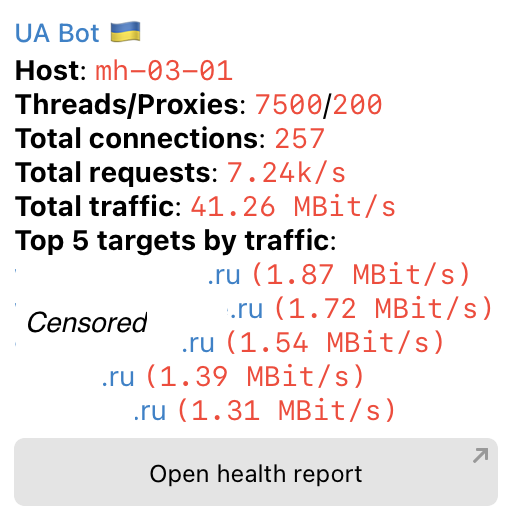
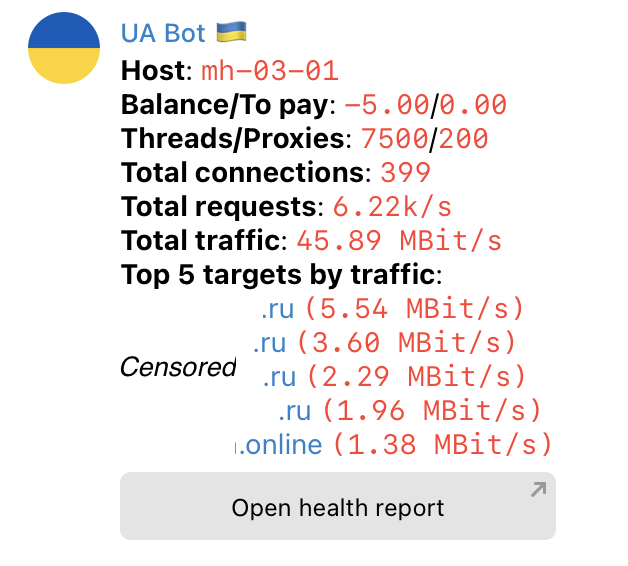
Finish README

Changed region(s): [[0.0, 0.0, 0.9734, 0.966], [0.2738, 0.8755, 0.73, 0.9358]]

diff --git a/README.md b/README.md
@@ -1,4 +1,4 @@
-## Встановлювач [mhddos_proxy](https://github.com/porthole-ascend-cinnamon/mhddos_proxy) зі сповіщенням у Telegram 
+# Встановлювач [mhddos_proxy](https://github.com/porthole-ascend-cinnamon/mhddos_proxy) зі сповіщенням у Telegram 
 
 За цією інструкцією ви зможете налаштувати [mhddos_proxy](https://github.com/porthole-ascend-cinnamon/mhddos_proxy) та сповіщення у Телеграм. Це дасть вам змогу зробити це один раз та завжди знати що відбувається на серверах без потреби перевіряти їх кожного дня. Також, це просто красиво ✨
 
@@ -6,13 +6,14 @@
 <img src="img/notifications.png" alt="Приклад сповіщення" width="300"/>
 
 Ви отримаєте наступну інформацію:
-1. **Host** - назва сервера.
-2. **Threads/Proxies** - кількість потоків та проксі виділених на один процесс mhddos_proxy
-3. **Total connections** - скільки зʼєднань встановлено на даний момент
-4. **Total requests** - скільки реквестів в секунду відправляєть на даний момент
-5. **Total traffic** - загальна кількість трафіку відправляєма на усі цілі (чим більше, тим ефективніша атака)
-6. **Top 5 targets by traffic** - цілей може бути сотня, але цікаво знати топ 5 за трафіко - на них йде найсильніша атака
-7. **Open health report** - клікабельна кнопка, що направить вас на [трекер цілей від IT Army](https://itarmy.com.ua/check/)
+1. **Host** - назва сервера
+2. **Balance/To pay** - скільки кредитів залишилось та скільки реальних грошей ви витратили (тільки для Digital Ocean)
+3. **Threads/Proxies** - кількість потоків та проксі виділених на один процесс mhddos_proxy
+4. **Total connections** - скільки зʼєднань встановлено на даний момент
+5. **Total requests** - скільки реквестів в секунду відправляєть на даний момент
+6. **Total traffic** - загальна кількість трафіку відправляєма на усі цілі (чим більше, тим ефективніша атака)
+7. **Top 5 targets by traffic** - цілей може бути сотня, але цікаво знати топ 5 за трафіко - на них йде найсильніша атака
+8. **Open health report** - клікабельна кнопка, що направить вас на [трекер цілей від IT Army](https://itarmy.com.ua/check/)
 
 ## Як встановити?
 
@@ -62,4 +63,60 @@
 Збережіть собі значення токену, бо його можна побачити лише один раз!
 
 ### Нарешті можна створювати сервера!
+
+Оберіть `Droplets`, `Create Droplets`.
+
+<img src="img/droplet.gif" alt="Створення дроплету" width="900"/>
+
+Оберіть:
+* Ubuntu 20.04 (LTS)
+* Basic
+* $15/mo (можна обрати $5/mo, але атака буде слабше)
+* Amsterdam London Frankfurt
+* Password (введіть пароль)
+* Включить Monitoring
+* Включить User Data
+* Скопіюйте увесь контент [цього файла](https://raw.githubusercontent.com/sadviq99/mhddos_proxy-setup/master/mhddos_setup.sh) до поля User Data
+
+Змініть значення згідно інформації яку ви отримали раніше.
+
+<img src="img/user_data.png" alt="Налаштування змінних" width="900"/>
+
+* **TG_TOKEN** - токен отриманий після створення бота
+* **TG_CHAT_ID** - отриманий chat_id
+* **NOTIFY_EVERY_HOUR** - як часто отримувати нотифікації (кожні Х годин)
+* **NIGHT_SILENCE** - виключати атаки між 01:00 - 08:00 МСК (щоб зберегти трохи грошей на трафіку)
+* **DIGITALOCEAN_TOKEN** - API токен для Digital Ocean, щоб отримувати інформацію про баланс коштів (залиште пустим якщо разгортаєте це в іншому середовищі)
+
+Оберіть кількість серверів (рекомендую не більше 3), та натисніть `Create Droplet`.
+
+Вітаю! 🙌 Ви щойно долучились до лав IT Армії!
+
+Чекайте сповіщення у Телеграм згідно розкладу, який ви задали вище.
+
+### Перевірка для нетерплячих 🙂
+
+Зачекайте десь 5 хвилин після створення серверу, потім зайдіть на нього на виконайте `./tg.sh`.
+
+<img src="img/check.gif" alt="Перевірка нотифікацій" width="900"/>
+
+### Поради
+
+Не запускайте більше ніж 3 сервера на одному аккаунті, це підвищує шанси блокування аккаунту.
+
+Якщо ви зареєстрували аккаунт у DigitalOcean на уявну пошту `mymail@gmail.com`, ви можете додати `+<число>` (`mymail+1@gmail.com`, `mymail+2@gmail.com`) та створити ще аккаунти, отримуючи листи на ту ж саму `mymail@gmail.com` пошту! Це дуже зручно, ви можете повторювати процес багато разів, скільки завгодно.
+
+Краще використовувати декілька засобів атак, щоб диверсифікувати зусилля. Наприклад, [mhddos_proxy](https://github.com/porthole-ascend-cinnamon/mhddos_proxy) та [db1000n](https://github.com/Arriven/db1000n).
+
+### А можна так само для db1000n?
+
+Звісно можна! Усі інструкції на відео: https://www.youtube.com/watch?v=tFSQJW0vSfI
+
+### Підтримка
+
+Якщо у вас виникли проблеми, запитання, або вам просто потрібна допомога - звертайтеся до телеграм каналів:
+
+* Апдейти - https://t.me/sadviqhelp
+* Підтримка - https://t.me/sadviqchat
+
 
